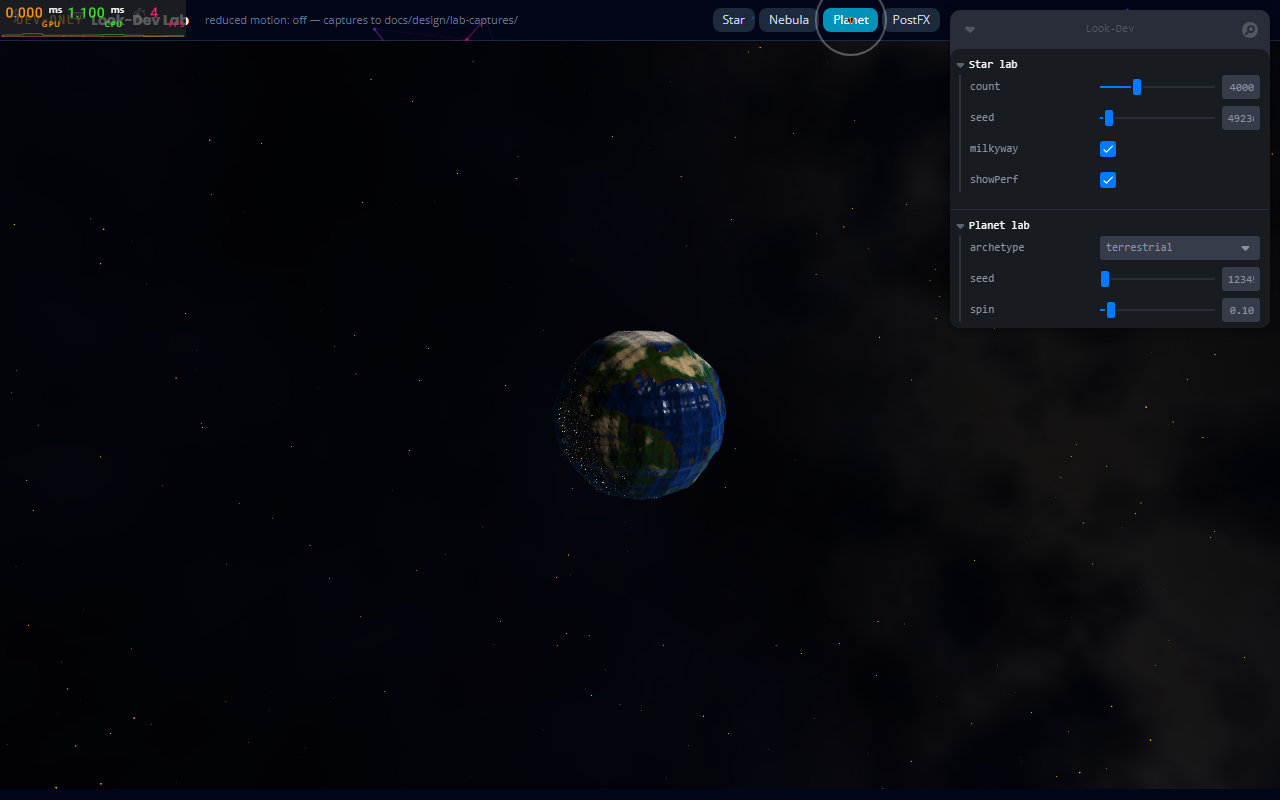
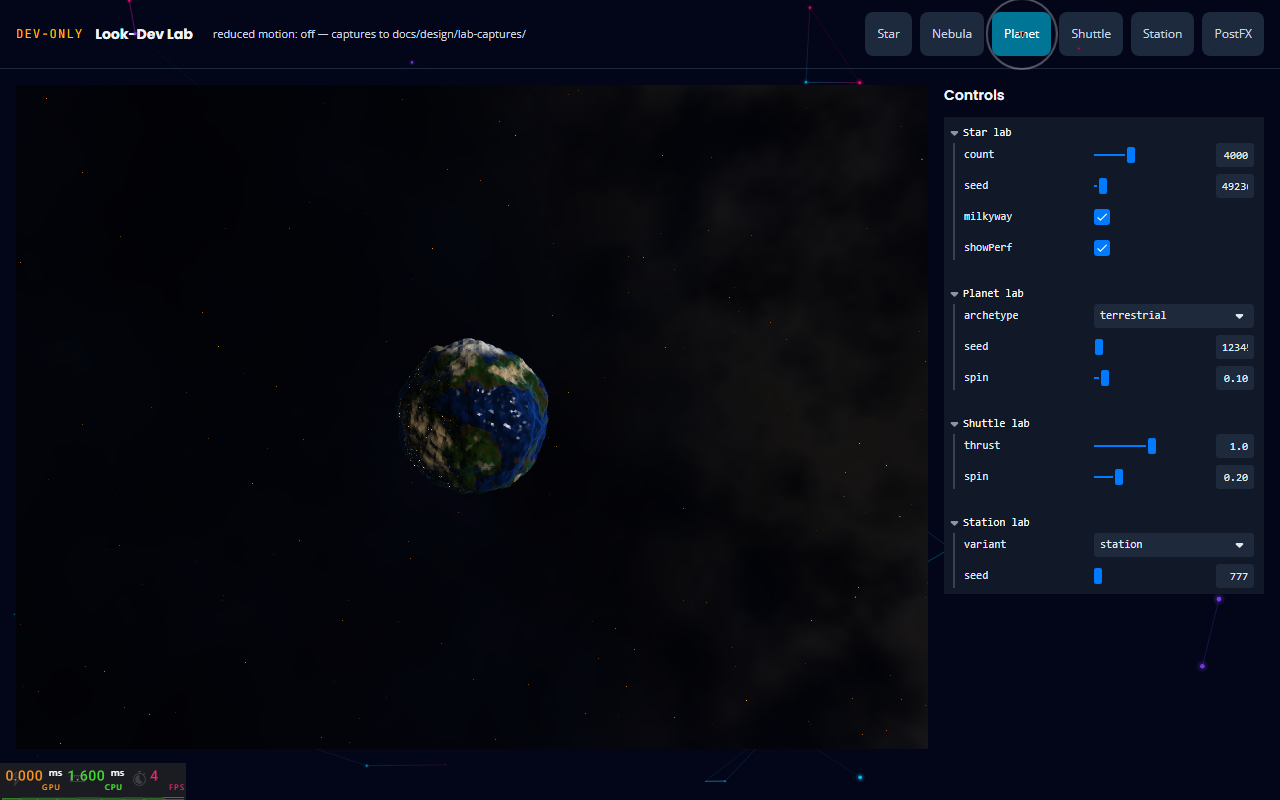
Keep seeded planets valid, consistently lit, and properly disposed
Prevent signed hash arithmetic from generating invalid radii, preserve integer terrain permutations, and release replaced geometry. Add numerical, lifecycle, and real-WebGL lighting regressions.

diff --git a/FrontEnd/tests/cosmic.test.jsx b/FrontEnd/tests/cosmic.test.jsx
@@ -1,0 +1,71 @@
+import { describe, it, expect } from 'vitest';
+import { generatePlanetLayout, archetypeFromModule, PLANET_ARCHETYPES, ARCHETYPE_LABELS } from '../src/cosmic/PlanetGenerator';
+
+describe('PlanetGenerator', () => {
+  describe('PLANET_ARCHETYPES', () => {
+    it('exposes exactly 8 archetypes covering all design §1 categories', () => {
+      expect(PLANET_ARCHETYPES).toHaveLength(8);
+      expect(PLANET_ARCHETYPES).toEqual(['terrestrial', 'gas_giant', 'ice_world', 'volcanic', 'oceanic', 'crystalline', 'desert', 'nebula_station']);
+    });
+    it('has a Chinese-readable label per archetype', () => {
+      Object.keys(ARCHETYPE_LABELS).forEach((k) => {
+        expect(typeof ARCHETYPE_LABELS[k]).toBe('string');
+        expect(ARCHETYPE_LABELS[k].length).toBeGreaterThan(0);
+      });
+    });
+  });
+
+  describe('generatePlanetLayout determinism', () => {
+    it.each(['000000000000000000000221', '000000000000000000000006'])('keeps positive planet dimensions for lesson %s', (moduleId) => {
+      const layout = generatePlanetLayout({ courseId: '000000000000000000000001', moduleId });
+      expect(layout.size).toBeGreaterThanOrEqual(0.7);
+      expect(layout.size).toBeLessThanOrEqual(2.1);
+      expect(layout.radius).toBeGreaterThanOrEqual(6);
+      expect(layout.radius).toBeLessThanOrEqual(11);
+      expect(layout.altitude).toBeGreaterThanOrEqual(0);
+      expect(layout.orbitSpeed).toBeGreaterThanOrEqual(0.05);
+    });
+
+    it('keeps finite bounded parameters across real ObjectId values', () => {
+      for (let index = 1; index <= 1024; index++) {
+        const layout = generatePlanetLayout({ courseId: '000000000000000000000001', moduleId: index.toString(16).padStart(24, '0') });
+        expect(layout.size).toBeGreaterThan(0);
+        expect(layout.radius).toBeGreaterThanOrEqual(6);
+        expect(layout.altitude).toBeGreaterThanOrEqual(0);
+        expect(layout.orbitSpeed).toBeGreaterThan(0);
+        for (const key of ['angle', 'radius', 'altitude', 'size', 'orbitSpeed']) expect(Number.isFinite(layout[key])).toBe(true);
+      }
+    });
+    it('produces identical output for identical inputs', () => {
+      const a = generatePlanetLayout({ courseId: 'course-1', moduleId: 'mod-A', moduleTitle: 'First Module' });
+      const b = generatePlanetLayout({ courseId: 'course-1', moduleId: 'mod-A', moduleTitle: 'First Module' });
+      expect(a).toEqual(b);
+    });
+    it('different course-module combos yield different archetypes', () => {
+      const a = generatePlanetLayout({ courseId: 'a', moduleId: 'm1', moduleTitle: '' }).archetype;
+      const b = generatePlanetLayout({ courseId: 'b', moduleId: 'm1', moduleTitle: '' }).archetype;
+      // With weak hash mod 8, collisions are unlikely but we assert the values differ for distinct course IDs.
+      if (a === b) throw new Error('Seed collision detected for different course IDs');
+    });
+    it('every layout result has all required fields populated', () => {
+      const out = generatePlanetLayout({ courseId: 'c', moduleId: 'd', moduleTitle: 'T' });
+      ['archetype', 'seed', 'angle', 'radius', 'altitude', 'size', 'orbitSpeed', 'title'].forEach((f) => {
+        expect(out[f]).toBeDefined();
+      });
+    });
+  });
+
+  describe('archetypeFromModule', () => {
+    it('returns archetype when module category matches known list', () => {
+      const arch = archetypeFromModule({ category: 'gas_giant', courseId: '', moduleId: '' });
+      expect(arch).toBe('gas_giant');
+    });
+    it('falls back to hash-derived archetype when no category present', () => {
+      const arch = archetypeFromModule({ category: '', courseId: 'course-X', moduleId: 'mod-Y' });
+      expect(PLANET_ARCHETYPES).toContain(arch);
+    });
+    it('returns null when all three props empty', () => {
+      expect(archetypeFromModule({ courseId: '', moduleId: '' })).toBeNull();
+    });
+  });
+});

diff --git a/FrontEnd/tests/e2e/planet-lighting.spec.js b/FrontEnd/tests/e2e/planet-lighting.spec.js
@@ -1,0 +1,48 @@
+import { test, expect } from '@playwright/test';
+
+test('planet world-space diffuse lighting stays fixed while the camera orbits', async ({ page }) => {
+  const errors = [];
+  page.on('pageerror', (error) => errors.push(error.message));
+  page.on('console', (message) => {
+    if (message.type() === 'error' && /THREE|WebGL|GLSL|shader/i.test(message.text())) errors.push(message.text());
+  });
+  await page.goto('/@vite/client');
+  const pixels = await page.evaluate(async () => {
+    const THREE = await import('/node_modules/three/build/three.module.js');
+    const { default: vertexShader } = await import('/src/cosmic/shaders/planet.vert.glsl?raw');
+    const renderer = new THREE.WebGLRenderer({ antialias: false });
+    renderer.setSize(64, 64);
+    const target = new THREE.WebGLRenderTarget(64, 64);
+    const geometry = new THREE.PlaneGeometry(4, 4);
+    const material = new THREE.ShaderMaterial({
+      vertexShader,
+      fragmentShader: 'uniform vec3 uSunDir; varying vec3 vNormal; void main() { float light = max(dot(normalize(vNormal), normalize(uSunDir)), 0.0); gl_FragColor = vec4(vec3(light), 1.0); }',
+      uniforms: { uSunDir: { value: new THREE.Vector3(0, 0, 1) } },
+    });
+    const scene = new THREE.Scene();
+    scene.add(new THREE.Mesh(geometry, material));
+    const camera = new THREE.PerspectiveCamera(40, 1, 0.1, 10);
+    try {
+      renderer.setRenderTarget(target);
+      return [0, Math.PI / 4, Math.PI / 3].map((angle) => {
+        camera.position.set(Math.sin(angle) * 4, 0, Math.cos(angle) * 4);
+        camera.lookAt(0, 0, 0);
+        renderer.render(scene, camera);
+        const pixel = new Uint8Array(4);
+        renderer.readRenderTargetPixels(target, 32, 32, 1, 1, pixel);
+        return Array.from(pixel);
+      });
+    } finally {
+      target.dispose();
+      geometry.dispose();
+      material.dispose();
+      renderer.dispose();
+      renderer.forceContextLoss();
+    }
+  });
+  expect(errors).toEqual([]);
+  for (const pixel of pixels) {
+    expect(pixel[0]).toBeGreaterThanOrEqual(250);
+    expect(pixel[3]).toBe(255);
+  }
+});

diff --git a/FrontEnd/tests/PlanetSurface.test.jsx b/FrontEnd/tests/PlanetSurface.test.jsx
@@ -9,10 +9,35 @@ vi.mock('@react-three/fiber', () => ({ useFrame: () => null }));
 // ?raw GLSL imports resolve to strings in vitest (vite handles it); assert that.
 import planetVert from '../src/cosmic/shaders/planet.vert.glsl?raw';
 import planetFrag from '../src/cosmic/shaders/planet.frag.glsl?raw';
-import { displaceIcosahedron } from '../src/cosmic/PlanetSurface';
+import { displaceIcosahedron, makeDisplace } from '../src/cosmic/PlanetSurface';
+import { BufferGeometry } from 'three';
 import PlanetSurface from '../src/cosmic/PlanetSurface';
 
 describe('PlanetSurface (F4)', () => {
+  it('uses the seed to change terrain gradients, not just coordinate offsets', () => {
+    const first = makeDisplace(42);
+    const second = makeDisplace(12345);
+    const points = [[0.25, 0.25, 0.25], [0.75, 0.25, 0.75], [1.25, 0.75, 2.25]];
+    expect(points.filter((point) => Math.abs(first(...point) - second(...point)) > 0.00001).length).toBeGreaterThanOrEqual(2);
+    expect(first(0.25, 0.25, 0.25)).toBe(makeDisplace(42)(0.25, 0.25, 0.25));
+  });
+
+  it('disposes replaced geometry and the final geometry on unmount', () => {
+    const dispose = vi.spyOn(BufferGeometry.prototype, 'dispose');
+    const { rerender, unmount } = render(<PlanetSurface seed={42} detail={2} />);
+    try {
+      expect(dispose).not.toHaveBeenCalled();
+      rerender(<PlanetSurface seed={99} detail={2} />);
+      expect(dispose).toHaveBeenCalledTimes(1);
+      rerender(<PlanetSurface seed={99} radius={2} detail={2} />);
+      expect(dispose).toHaveBeenCalledTimes(2);
+      unmount();
+      expect(dispose).toHaveBeenCalledTimes(3);
+    } finally {
+      unmount();
+      dispose.mockRestore();
+    }
+  });
   it('every archetype has a complete uniform preset', () => {
     const keys = ['palA', 'palB', 'palC', 'oceanColor', 'oceanLevel', 'capColor', 'capLevel', 'atmoColor', 'atmoStrength', 'night', 'rough', 'metal'];
     expect(PLANET_ARCHETYPES).toHaveLength(8);

diff --git a/FrontEnd/src/cosmic/PlanetSurface.jsx b/FrontEnd/src/cosmic/PlanetSurface.jsx
@@ -1,4 +1,4 @@
-import { useMemo, useRef } from 'react';
+import { useEffect, useMemo, useRef } from 'react';
 import { useFrame } from '@react-three/fiber';
 import * as THREE from 'three';
 import planetVert from './shaders/planet.vert.glsl?raw';
@@ -32,16 +32,16 @@ function mulberry32(seed) {
 // Small JS-side value noise for geometry displacement. Matches the GLSL
 // hash shape closely enough that displacement and coloring agree visually;
 // exact equality is unnecessary (color uses its own fbm at higher octaves).
-function makeDisplace(seed) {
+export function makeDisplace(seed) {
   const rand = mulberry32(seed);
-  const perm = new Float32Array(512);
+  const perm = new Uint8Array(512);
   const p = new Uint8Array(256);
   for (let i = 0; i < 256; i++) p[i] = i;
   for (let i = 255; i > 0; i--) {
     const j = Math.floor(rand() * (i + 1));
     const t = p[i]; p[i] = p[j]; p[j] = t;
   }
-  for (let i = 0; i < 512; i++) perm[i] = p[i & 255] / 255;
+  for (let i = 0; i < 512; i++) perm[i] = p[i & 255];
   const fade = (t) => t * t * (3 - 2 * t);
   const grad = (h, x, y, z) => ((h & 1) ? -x : x) + ((h & 2) ? -y : y) + ((h & 4) ? -z : z);
   function noise3(x, y, z) {
@@ -92,6 +92,7 @@ export default function PlanetSurface({ archetype = 'terrestrial', seed = 1, rad
   const preset = ARCHETYPE_UNIFORMS[archetype] || ARCHETYPE_UNIFORMS.terrestrial;
 
   const geometry = useMemo(() => displaceIcosahedron(radius, detail, seed), [radius, detail, seed]);
+  useEffect(() => () => geometry.dispose(), [geometry]);
 
   const uniforms = useMemo(() => ({
     uSeed: { value: (seed % 997) / 997 },

diff --git a/FrontEnd/src/cosmic/PlanetGenerator.jsx b/FrontEnd/src/cosmic/PlanetGenerator.jsx
@@ -60,10 +60,10 @@ export function generatePlanetLayout({ courseId, moduleId, moduleTitle }) {
   const seed = hashToSeed(courseId || 'default', moduleId || '0');
   const archetype = PLANET_ARCHETYPES[seed % PLANET_ARCHETYPES.length];
   const angle = ((seed >>> 0) % 360) / 360;            // position around orbit
-  const radius = 6 + ((seed >> 8) % 3) * 2.5;          // orbit spacing
-  const altitude = ((seed >> 16) % 4) * 1.5;           // tilt wobble
-  const size = 0.7 + ((seed >> 0) % 10) / 10 * 1.4;    // planet relative radius
-  const orbitSpeed = 0.05 + ((seed >> 8) % 10) / 100;  // slow drifting rotation
+  const radius = 6 + ((seed >>> 8) % 3) * 2.5;
+  const altitude = ((seed >>> 16) % 4) * 1.5;
+  const size = 0.7 + (seed % 10) / 10 * 1.4;
+  const orbitSpeed = 0.05 + ((seed >>> 8) % 10) / 100;
   return {
     archetype,
     seed,
